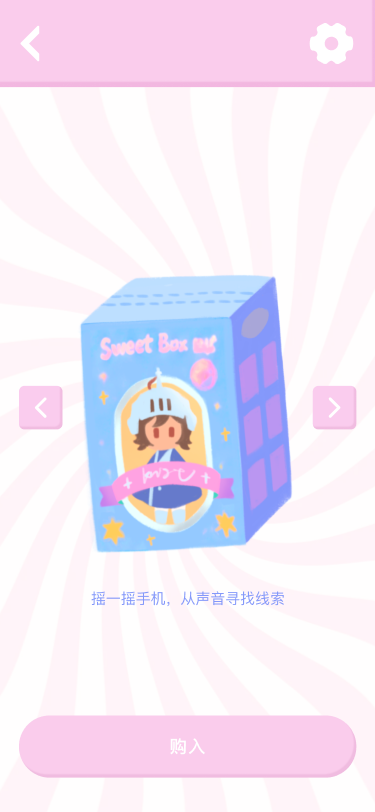
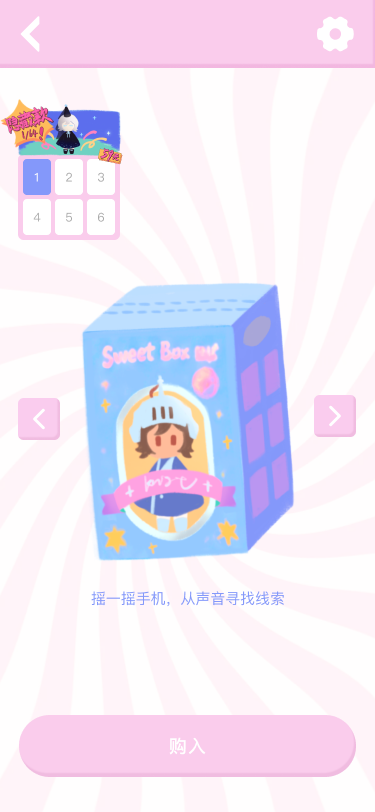
完成Page1跳转Page2

diff --git a/script.js b/script.js
@@ -1,18 +1,8 @@
-document.querySelectorAll(".click-box").forEach(box => {
+const clickBoxes = document.querySelectorAll(".click-box");
+const page2 = document.getElementById("page2");
 
-    box.addEventListener("click", (e) => {
-
-        const id = e.target.dataset.id;
-
-        console.log("点击了盲盒：", id);
-
-        // 👉 切到第二页
-        document.getElementById("page1").classList.remove("active");
-        document.getElementById("page2").classList.add("active");
-
-        // 👉 更新缩略图
-        updateThumb(id);
-
+clickBoxes.forEach(box => {
+    box.addEventListener("click", () => {
+        page2.style.display = "block";
     });
-
 });

diff --git a/style.css b/style.css
@@ -22,11 +22,12 @@ body{
     height:812px;
 
     position:relative;
+    /*overflow:hidden*/
 
     transform-origin:center center;
 
     /* 自动等比缩放适配屏幕 */
-    transform: scale(min(
+    /transform: scale(min(
         calc(100vw / 375),
         calc(100vh / 812)
     ));
@@ -91,3 +92,15 @@ body{
 .click-box[data-id="4"]{ left:15%; top:52%; }
 .click-box[data-id="5"]{ left:39%; top:52%; }
 .click-box[data-id="6"]{ left:63%; top:52%; }
+
+.page2-bg{
+    position:absolute;
+    width:100%;
+    height:100%;
+    top:0;
+    left:0;
+    display:none;
+    z-index:30;
+
+    object-fit:contain;
+}

diff --git a/index.html b/index.html
@@ -27,10 +27,15 @@
 
     </div>
 
-    <!-- 手指 -->
+    <!-- 手指指引-->
     <img src="images/finger.png" class="finger">
 
+    <!-- PAGE 2：详情页，默认隐藏 -->
+     <img src="images/page2_bg.png" class="page2-bg" id="page2">
+
 </div>
+
+<script src="script.js"></script>
 
 </body>
 </html>